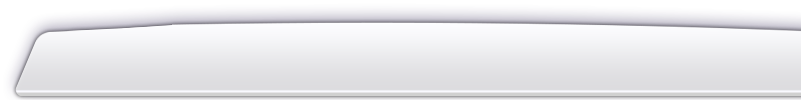
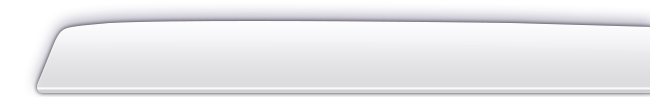
上海麻将

Changed region(s): [[0.0, 0.1856, 1.0, 0.9897]]

diff --git a/Mahjong/Classes/game/mahjong/lobby/LobbyScene.cpp b/Mahjong/Classes/game/mahjong/lobby/LobbyScene.cpp
@@ -294,15 +294,15 @@ void LobbyScene::drawSceneMid(){
 
 void LobbyScene::drawSceneBot(){
     auto bot_bg = Sprite::create("mjlobby/lobby_bottom_bg.png");
-    bot_bg->setPosition(821,48);
+    bot_bg->setPosition(955,48);
     addChild(bot_bg);
     
     auto btn_2 = MenuItemImage::create("mjlobby/bill_btn_1.png", "mjlobby/bill_btn_2.png", CC_CALLBACK_0(LobbyScene::showPlayerBill, this));
     auto btn_3 = MenuItemImage::create("mjlobby/task_btn_1.png", "mjlobby/task_btn_2.png", CC_CALLBACK_0(LobbyScene::showDayTask, this));
     auto btn_5 = MenuItemImage::create("mjlobby/setting_btn_1.png", "mjlobby/setting_btn_2.png", CC_CALLBACK_0(LobbyScene::showGameSetting, this));
     auto gameMenu = Menu::create(btn_2,btn_3, btn_5, NULL);
-    gameMenu->alignItemsHorizontallyWithPadding(105);
-    gameMenu->setPosition(785, 43);
+    gameMenu->alignItemsHorizontallyWithPadding(80);
+    gameMenu->setPosition(900, 43);
     addChild(gameMenu);
     auto openRoom = MenuItemImage::create("mjlobby/open_room_btn_1.png", "mjlobby/open_room_btn_2.png", CC_CALLBACK_0(LobbyScene::showOpenRoom, this));
     auto openMenu = Menu::create(openRoom,NULL);

diff --git a/Mahjong/Classes/game/mahjong/splash/LoadResource.cpp b/Mahjong/Classes/game/mahjong/splash/LoadResource.cpp
@@ -53,7 +53,7 @@ void LoadResource::showLayer(){
     dragon->setPosition(640,360);
     addChild(dragon);
 
-    auto mahjong = Sprite::create("mainlogin/loading_mahjong.png");
+    auto mahjong = Sprite::create("mainlogin/feipai.png");
     mahjong->setPosition(640,360);
     addChild(mahjong);
     
